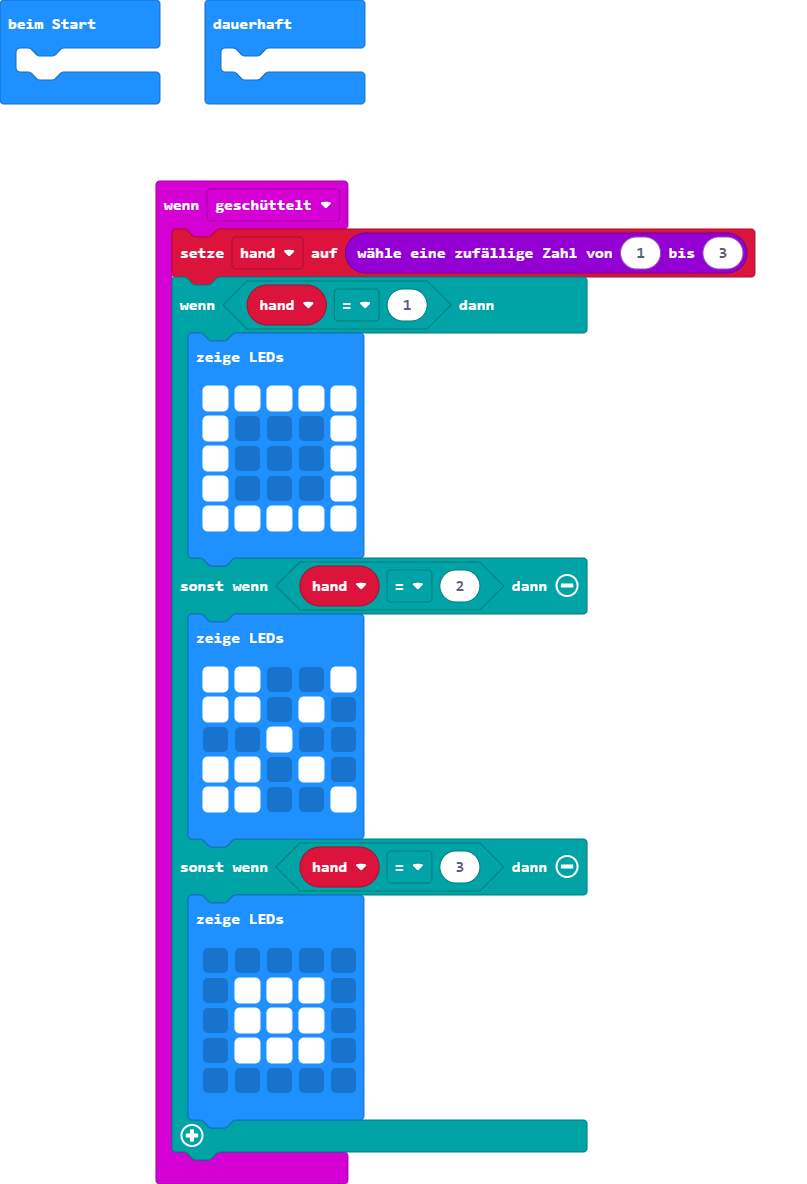
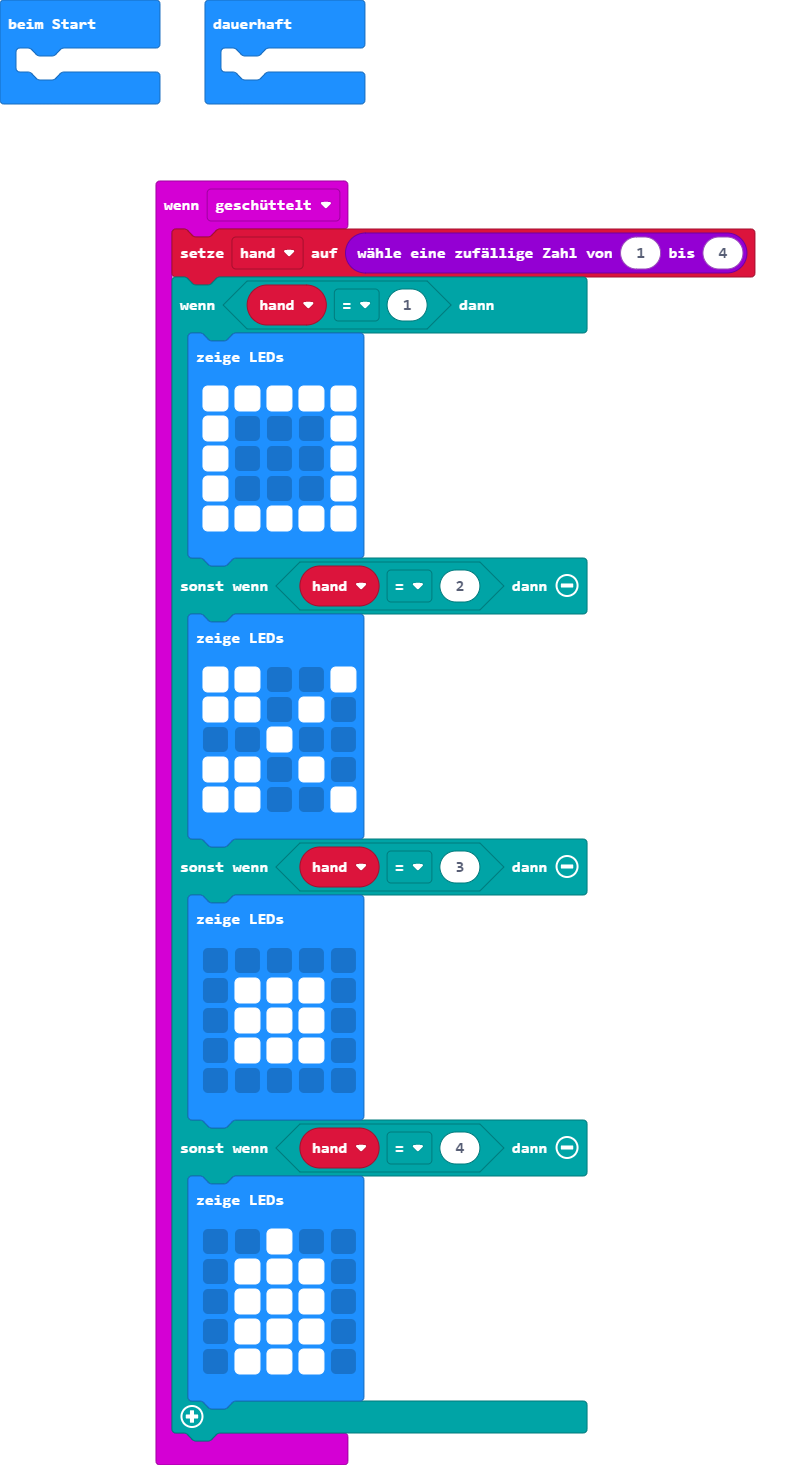
SHEEEEE

Changed region(s): [[0.1859, 0.125, 0.9603, 1.0], [0.2478, 0.0, 0.4647, 0.0938], [0.0, 0.0, 0.2169, 0.0938]]

diff --git a/main.ts b/main.ts
@@ -1,6 +1,6 @@
 let hand = 0
 input.onGesture(Gesture.Shake, function () {
-    hand = randint(1, 3)
+    hand = randint(1, 4)
     if (hand == 1) {
         basic.showLeds(`
             # # # # #
@@ -24,6 +24,14 @@ input.onGesture(Gesture.Shake, function () {
             . # # # .
             . # # # .
             . . . . .
+            `)
+    } else if (hand == 4) {
+        basic.showLeds(`
+            . . # . .
+            . # # # .
+            . # # # .
+            . # # # .
+            . # # # .
             `)
     }
 })
